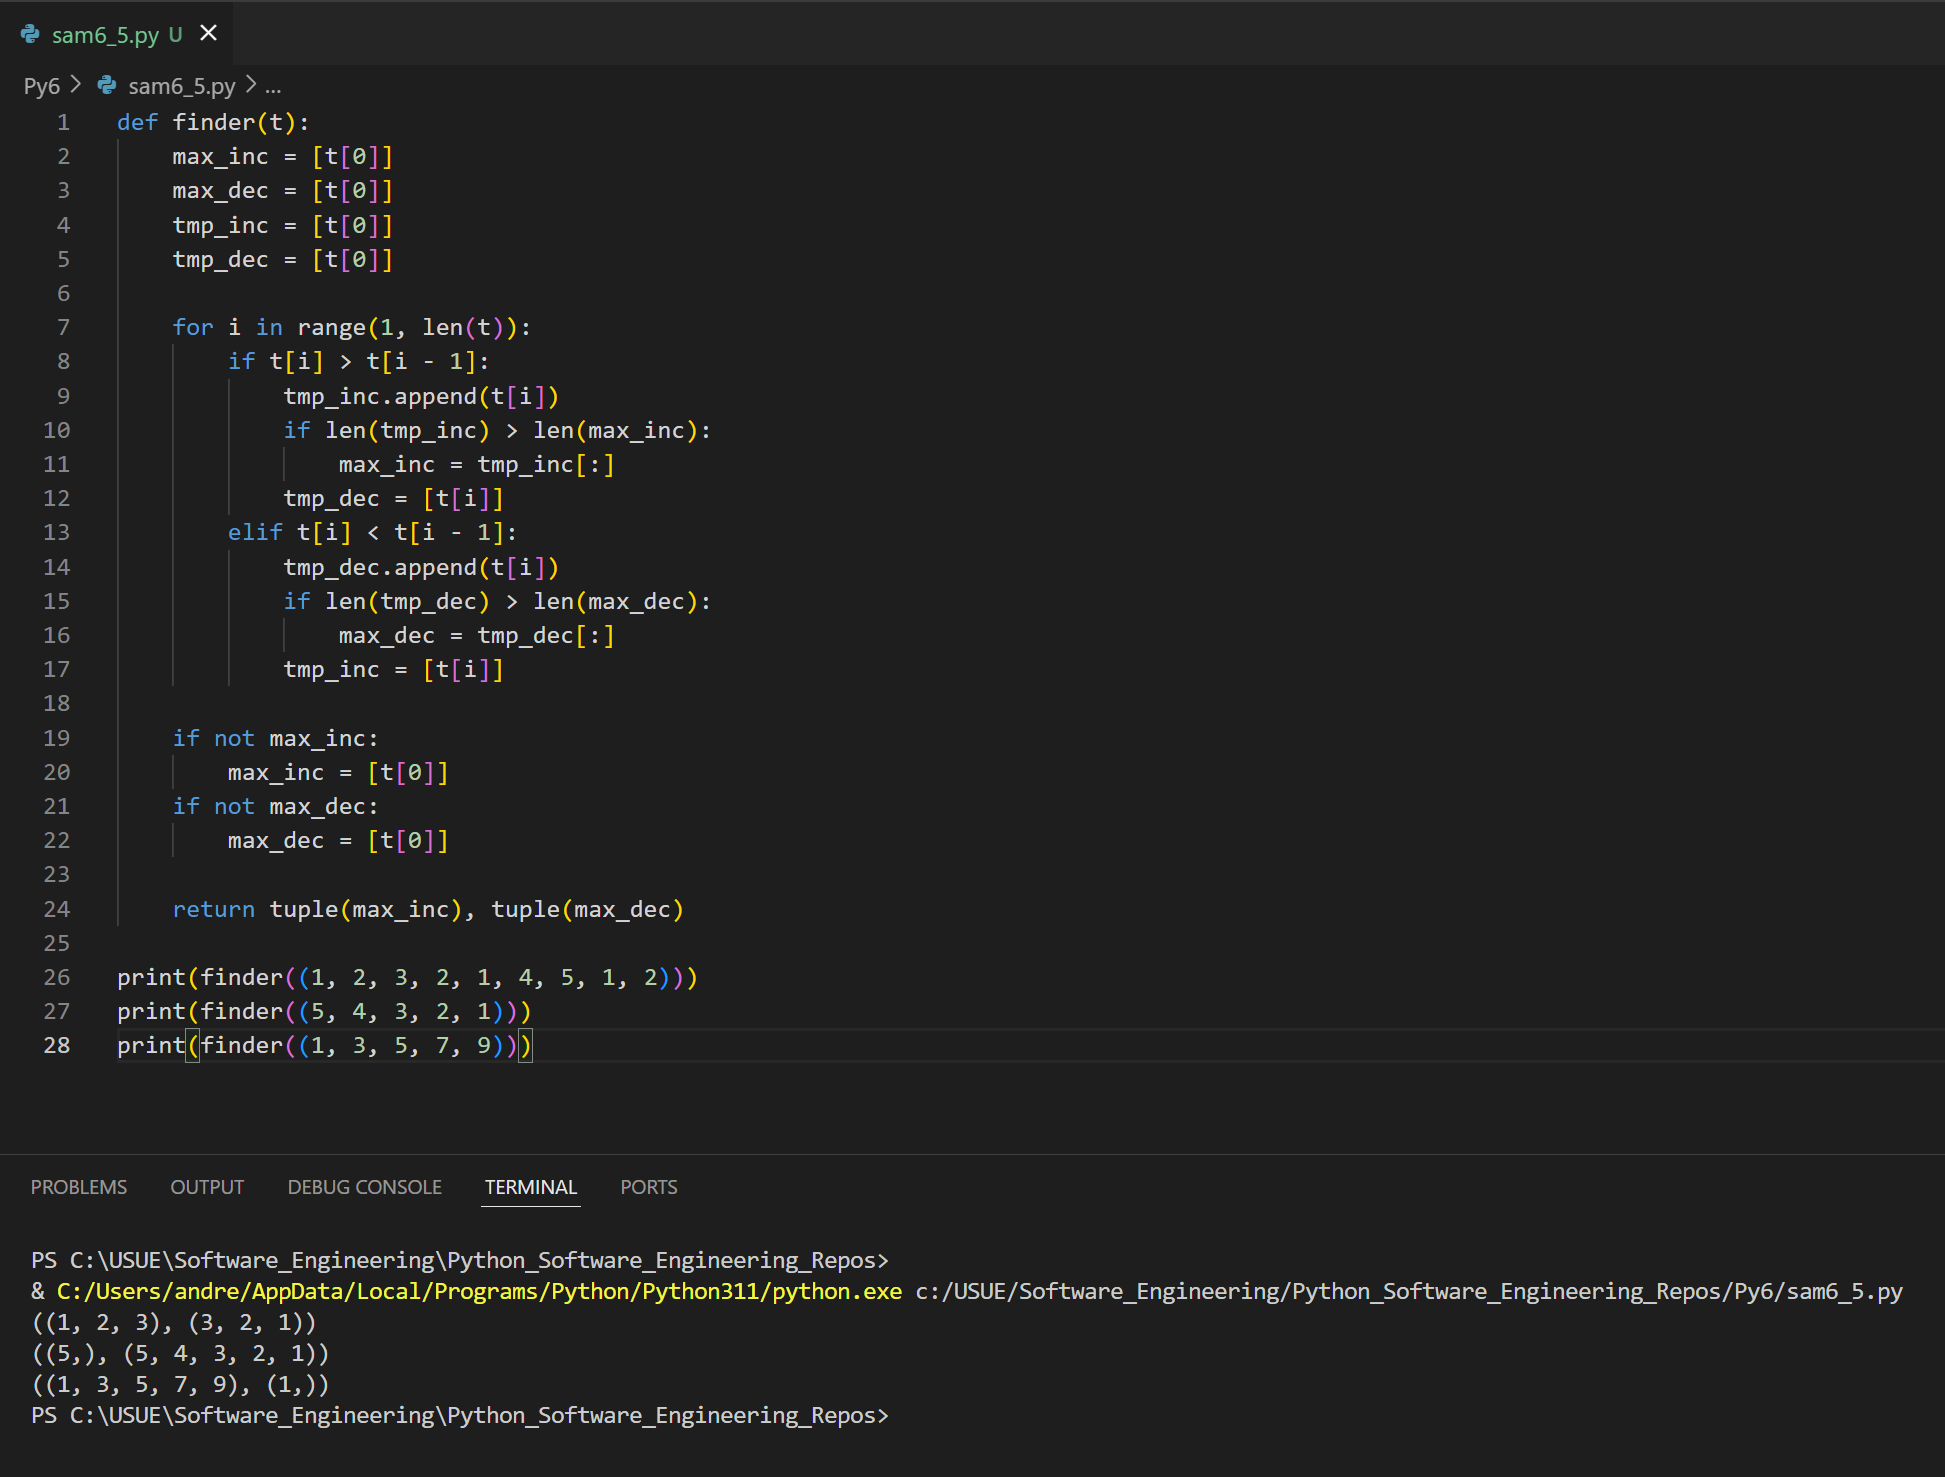
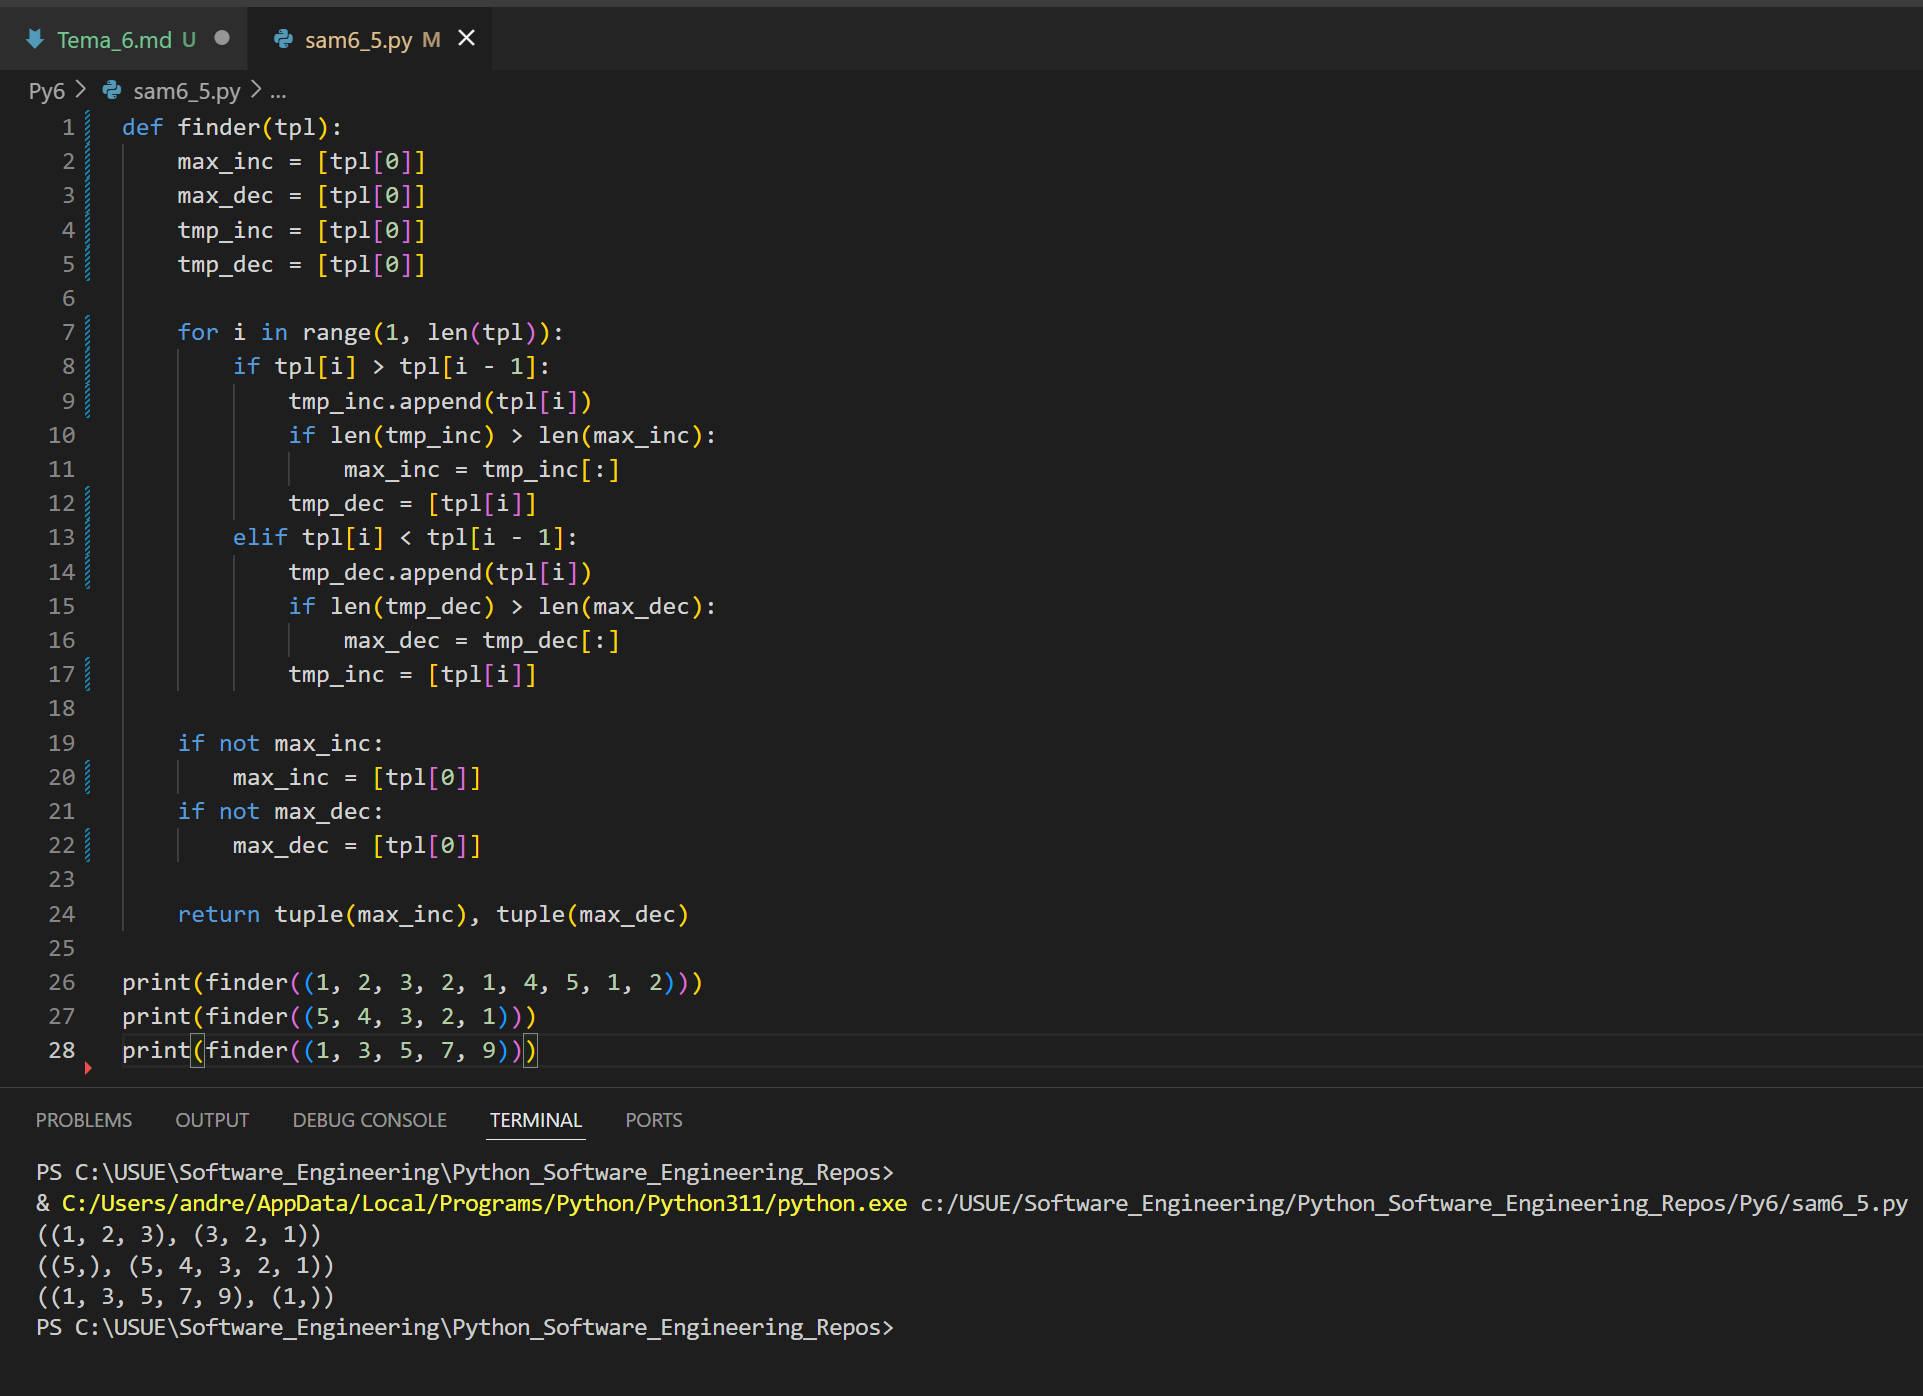
some fixes

Changed region(s): [[0.0, 0.0, 0.9984, 0.9857], [0.2184, 0.0, 0.2496, 0.0308]]

diff --git a/Py6/sam6_5.py b/Py6/sam6_5.py
@@ -1,30 +1,28 @@
-def finder(t):
-    max_inc = [t[0]]
-    max_dec = [t[0]]
-    tmp_inc = [t[0]]
-    tmp_dec = [t[0]]
+def finder(tpl):
+    max_inc = [tpl[0]]
+    max_dec = [tpl[0]]
+    tmp_inc = [tpl[0]]
+    tmp_dec = [tpl[0]]
     
-    for i in range(1, len(t)):
-        if t[i] > t[i - 1]:
-            tmp_inc.append(t[i])
+    for i in range(1, len(tpl)):
+        if tpl[i] > tpl[i - 1]:
+            tmp_inc.append(tpl[i])
             if len(tmp_inc) > len(max_inc):
                 max_inc = tmp_inc[:]
-            tmp_dec = [t[i]]
-        elif t[i] < t[i - 1]:
-            tmp_dec.append(t[i])
+            tmp_dec = [tpl[i]]
+        elif tpl[i] < tpl[i - 1]:
+            tmp_dec.append(tpl[i])
             if len(tmp_dec) > len(max_dec):
                 max_dec = tmp_dec[:]
-            tmp_inc = [t[i]]
+            tmp_inc = [tpl[i]]
 
     if not max_inc:
-        max_inc = [t[0]]
+        max_inc = [tpl[0]]
     if not max_dec:
-        max_dec = [t[0]]
+        max_dec = [tpl[0]]
 
     return tuple(max_inc), tuple(max_dec)
 
 print(finder((1, 2, 3, 2, 1, 4, 5, 1, 2)))
 print(finder((5, 4, 3, 2, 1)))
 print(finder((1, 3, 5, 7, 9)))
-
-#Создайте программу, которая получает на вход кортеж из последовательности чисел. Программа должна находить максимальную и минимальную длину последовательных возрастающих и убывающих подпоследовательностей в исходном кортеже. Необходимо вернуть два кортежа: один с максимальной длиной возрастающей подпоследовательности, а второй — с максимальной длиной убывающей подпоследовательности.
